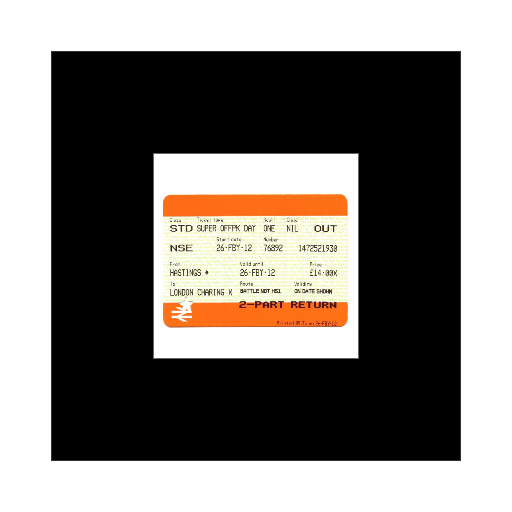
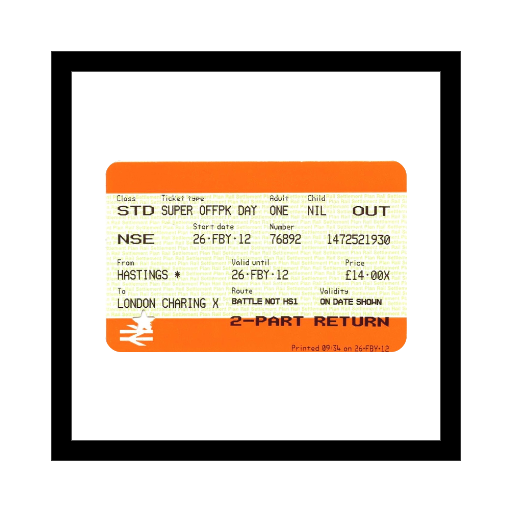
Image changes (#6)

diff --git a/src/components/trainTicket/TrainTicket.js b/src/components/trainTicket/TrainTicket.js
@@ -11,11 +11,11 @@ class TrainTicket extends Component {
                 type: "pattern",
                 url: "https://raw.githubusercontent.com/lbelfield/augmented-reality/master/src/components/trainTicket/train-ticket.patt"
               }}>
-              <a-box position="0 0.5 0" material="opacity: 0.5; side: double; color: #CA83FF;">
-                <a-torus-knot radius="0.26" radius-tubular="0.05">
-                  <a-animation attribute="rotation" to="360 0 0" dur="3000" easing="linear" repeat="indefinite" />
-                </a-torus-knot>
-              </a-box>
+              {/* Use phone to take high res pic of the train ticket
+                  Use Sketch to draw the lines on the new ticket, then set the transparency behind it as 0.
+                  Then export this ticket with lines as an png file, like the one in Trainline. */}
+              <a-image src="https://raw.githubusercontent.com/lbelfield/augmented-reality/master/src/components/trainTicket/raw-train-ticket.png">
+              </a-image>
             </Marker>
           </AFrameRenderer>
         );
